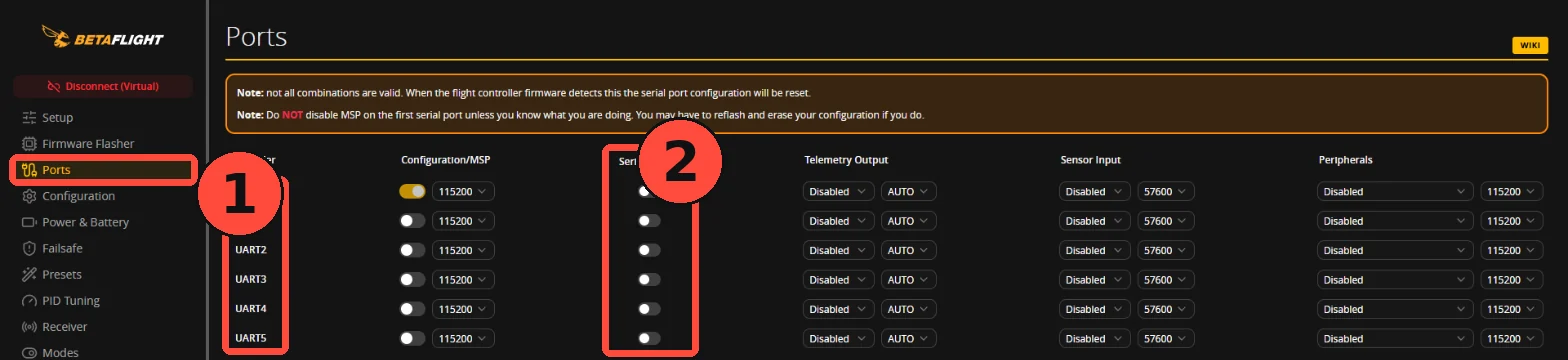
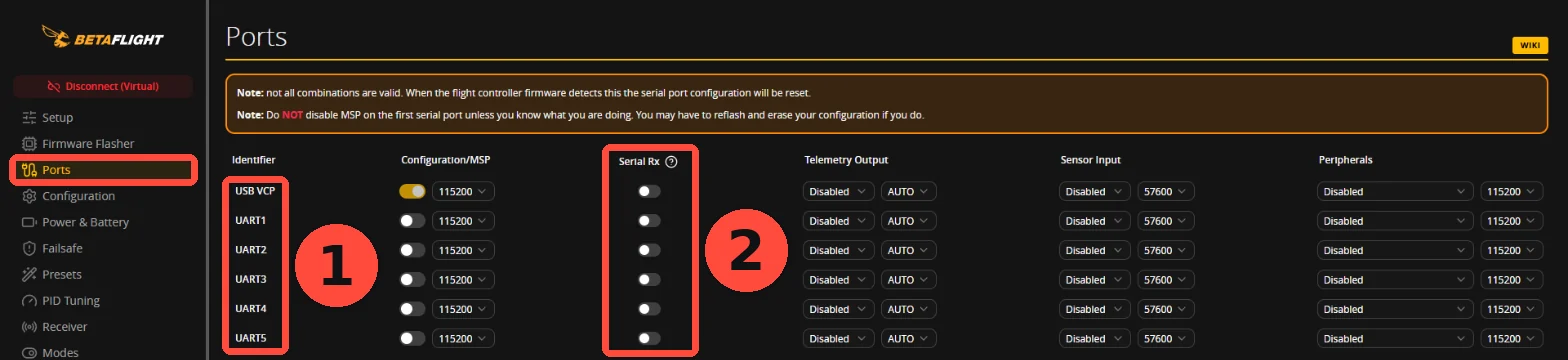
接收機／遙控器／GPS／失聯保護 10 篇：4.4 失聯第一階段也是 1.5 秒、STAGE1 開關需 1.5 秒內撥回、GPS 救援近距離行為分版本且改在 30～50 公尺測試、2026.6 觸地上鎖約 15 秒、第一階段油門設定、RGB 燈號例外、內建 SPI 接收機與韌體協定選項、Model Match 正確說法、存檔提醒、GPS 功能與編譯選項、Lua 鮑率；連接埠截圖編號不再遮字；長參數名在手機換行；e2e 加 App 名稱查詢
Claude-Session: https://claude.ai/code/session_01WoWSTdXLgMhsoMfGHALiD3

Changed region(s): [[0.4062, 0.3056, 0.5, 0.825], [0.125, 0.4278, 0.25, 0.8556]]

diff --git a/assets/css/site.css b/assets/css/site.css
@@ -721,7 +721,7 @@ section{padding:36px 0}
 .help-steps>li{counter-increment:hs;display:grid;grid-template-columns:36px minmax(0,1fr);gap:12px}
 .help-steps>li::before{content:counter(hs);display:grid;place-items:center;width:32px;height:32px;background:var(--red);color:var(--red-ink);font-family:var(--mono);font-weight:700}
 .help-step-t{font-weight:700;font-size:17px}
-.help-step-sub{margin:6px 0 0;padding-left:1.1em;color:#d9d8d4;display:grid;gap:4px}.help-steps p+p{margin-top:4px;color:#d9d8d4}
+.help-step-sub{margin:6px 0 0;padding-left:1.1em;color:#d9d8d4;display:grid;gap:4px;min-width:0}.help-step-sub li{min-width:0;overflow-wrap:anywhere}.help-steps p+p{margin-top:4px;color:#d9d8d4}
 .help-table{overflow-x:auto;border:1px solid var(--line)}
 .help-table table{border-collapse:collapse;width:100%;min-width:560px;font-size:15px}
 .help-table th,.help-table td{text-align:left;vertical-align:top;padding:10px 14px;border-bottom:1px solid var(--line)}
@@ -827,3 +827,4 @@ section{padding:36px 0}
 .help-layout{grid-template-columns:minmax(0,1fr) 240px}
 @media(max-width:900px){.help-layout{grid-template-columns:minmax(0,1fr)}.help-aside{display:none}}
 @media(max-width:560px){.help-head h1{font-size:26px}.help-start{width:100%}}
+.help-main code{overflow-wrap:anywhere;word-break:break-word}

diff --git a/assets/js/help.js b/assets/js/help.js
@@ -58,8 +58,8 @@
     [all('DSHOT_BBANG'), 'DShot bitbang 馬達輸出設定或硬體不相容', '牽涉馬達輸出設定，不屬於新手自行處理的範圍。', 'adv', null, ['DSHOT_BITBANG']],
     [all('BST'), 'BST 介面相關的禁止解鎖（少見）', '不屬於新手自行處理的範圍。', 'adv'],
     [all('LOAD'), '飛控運算負載過高', '牽涉進階設定，不屬於新手自行處理的範圍。', 'adv'],
-    [all('GPS'), '開了 GPS 返航，但衛星數不夠', '到戶外空曠處等待定位；GPS 返航設定不屬於新手自行處理的範圍。', 'adv'],
-    [all('RESCUE_SW'), 'GPS 返航開關是開著的', '把返航開關撥回「關」。', 'adv', null, ['RESC']],
+    [all('GPS'), '開了 GPS 救援，開機後第一次解鎖前衛星數不夠（預設 8 顆）', '到戶外空曠處等待定位，衛星數足夠再解鎖。', 'ok', ['/help/gps-no-fix/', 'GPS 收不到衛星']],
+    [all('RESCUE_SW'), 'GPS 救援開關是開著的', '把救援開關撥回「關」。', 'ok', null, ['RESC']],
   ];
   const TAG = { ok: ['可自行處理', 'is-ok'], adv: ['交給專業處理', 'is-adv'], stop: ['先停手', 'is-stop'] };
   const tool = document.querySelector('[data-tool="arming-flags"]');

diff --git a/src/data/help/receiver-no-control.md b/src/data/help/receiver-no-control.md
@@ -7,7 +7,7 @@ category: 接收機／對頻
 level: beginner
 applies: ExpressLRS 3.x 接收機＋Betaflight（4.4 以後各版本）
 needs: 電腦、可傳資料的 USB 線、遙控器
-verified: 2026-10-27
+verified: 2026-10-28
 summary: 先看接收機的燈怎麼閃。燈號會直接告訴你卡在哪一關：沒供電、還沒連上、在 Wi-Fi 模式、模型不符，還是已經連上但飛控沒收到。
 keywords:
   - 對頻
@@ -39,6 +39,8 @@ sources:
   - ExpressLRS 官方：燈號說明 | https://expresslrs.org/quick-start/led-status
   - ExpressLRS 官方：對頻方式與版本相容 | https://expresslrs.org/quick-start/binding
   - ExpressLRS 官方：Betaflight 接收機設定 | https://www.expresslrs.org/quick-start/receivers/configuring-fc/
+  - ExpressLRS 官方：模型配對（Model Match） | https://www.expresslrs.org/software/model-config-match/
+  - ExpressLRS 官方：接收機接線（避開 SBUS 用 UART 的原因） | https://www.expresslrs.org/quick-start/receivers/wiring-up/
 ---
 :::safety 開始前
 拆下全部螺旋槳。打開遙控器，選好這台飛機的模型，再接上飛機電池。
@@ -48,14 +50,16 @@ sources:
 
 ## 先看接收機的燈
 
-以下是 ExpressLRS 單色燈接收機的燈號。彩色燈（RGB）接收機顏色不同，閃法大致相同，以官方燈號表為準。
+用 DJI 遙控器 3 控制（沒有獨立的接收機）的話，這篇的燈號不適用，直接看 [[dji-o4-power-wiring]] 的「遙控器 3 不能控制飛機」。
+
+以下是 ExpressLRS 單色燈接收機的燈號。彩色燈（RGB）接收機有兩個狀態完全不同：綠色像心跳一樣慢慢閃是 Wi-Fi 模式（看 C 段）；完全不亮也可能是 Bootloader（刷機）模式（看 E 段第 1 步）。其他狀態以官方燈號表為準。
 
 | 接收機的燈 | 代表什麼 | 看哪一段 |
 | --- | --- | --- |
-| 不亮或很暗 | 接收機沒有正常供電 | A |
+| 不亮或很暗 | 接收機沒有正常供電（RGB 接收機不亮也可能是 Bootloader 模式） | A |
 | 慢閃（約半秒亮、半秒暗） | 開好了，正在等遙控器 | B |
 | 連閃兩下、停一下 | 正在對頻模式 | B |
-| 很快地閃（像在抖） | 進入 Wi-Fi 更新模式，不會跟遙控器連線 | C |
+| 很快地閃（像在抖）；RGB 接收機是綠色心跳閃 | 進入 Wi-Fi 更新模式，不會跟遙控器連線 | C |
 | 連閃三下、停一下 | 已經跟遙控器連上，但「模型配對」不符，所以不送搖桿 | D |
 | 恆亮 | 通常是已經連上遙控器；但單色燈接收機在 Bootloader（刷機）模式時也會恆亮 | E（先照 E 段第 1 步分辨） |
 | 中等速度一直閃（約 0.1 秒） | 接收機偵測不到無線晶片，屬於硬體問題 | 看文末「還是不行？」 |
@@ -70,9 +74,9 @@ sources:
 
 :::case B 慢閃或連閃兩下（還沒連上）
 1. **頻段要一樣**：2.4G 的遙控器只能連 2.4G 的接收機，900M 只能連 900M。
-2. **大版本要一樣**：遙控器發射端與接收機的版本，第一個數字要相同，例如 3.x 配 3.x；2.x 配 3.x 無法連線。
+2. **大版本要一樣**：遙控器發射端與接收機的版本，第一個數字要相同，例如 3.x 配 3.x、4.x 配 4.x；2.x 配 3.x 無法連線。飛控內建的接收機，要看那一版 Betaflight 支援哪一版 ELRS（例如 2026.6 內建接收機用 ELRS 3.x，不能配 4.x 的發射端）。
 3. **綁定密語要一樣**：兩邊設定的綁定密語（Binding Phrase）要是同一串文字。
-4. **沒設密語就手動對頻**：遙控器先關機，接收機在約 2 秒內「插電、拔電」連續三次，燈變成連閃兩下後，在遙控器的 ExpressLRS 腳本按 [BIND]。飛控內建的接收機，可以在 Betaflight「接收機」頁按對頻。
+4. **沒設密語就手動對頻**：遙控器先關機，接收機在約 2 秒內「插電、拔電」連續三次，燈變成連閃兩下後，在遙控器的 ExpressLRS 腳本按 [BIND]。飛控內建的接收機，可以在 Betaflight「接收機」頁按 Bind Receiver（對頻）。
 :::
 
 :::case C 很快地閃（Wi-Fi 模式）
@@ -82,25 +86,28 @@ sources:
 :::
 
 :::case D 連閃三下（模型配對不符）
-1. **切回原本能用的模型**：在遙控器換回綁定時用的那個模型，燈變恆亮、搖桿恢復控制，就是這個原因。
-2. **多台飛機各用一個模型**：每台飛機在遙控器各建一個模型，記住哪台配哪個。
-3. **不要為了省事長期關掉模型配對**：它的用途是避免選錯模型時控制到另一台飛機。
+1. **切回原本能用的模型**：模型配對（Model Match）不是在對頻時記住的，而是在連線狀態下打開 Model Match 時，接收機記住當時那個模型的 Receiver 編號。換回那個模型（EdgeTX「模型設定 → 內建／外接 RF」的 Receiver 編號相同的那個），燈變恆亮、搖桿恢復控制，就是這個原因。
+2. **多台飛機各用一個模型**：每台飛機在遙控器各建一個模型，每個模型設不同的 Receiver 編號；複製模型時編號會一起被複製，記得改掉。
+3. **建議打開模型配對**：模型配對預設是關的，打開後可以避免選錯模型時控制到另一台飛機。
 :::
 
 :::case E 燈恆亮，但 Betaflight 搖桿不動
-1. **先分辨是真的連上，還是在 Bootloader 模式**：看遙控器有沒有收到接收機的遙測資料（例如遙控器的遙測畫面出現 RSSI、LQ 等數值）。有，代表真的連上，繼續第 2 步。沒有，接收機可能停在 Bootloader（刷機）模式：拔掉電池重新插電，插電時不要按接收機上的按鍵；剛透過飛控刷過接收機的話，重新上電一次。
+1. **先分辨是真的連上，還是在 Bootloader 模式**：看遙控器有沒有收到接收機的遙測資料（例如遙控器的遙測畫面出現 RSSI、LQ 等數值）。有，代表真的連上，繼續第 2 步。沒有，接收機可能停在 Bootloader（刷機）模式：拔掉電池重新插電，插電時不要按接收機上的按鍵；剛透過飛控刷過接收機的話，重新上電一次。重新插電仍然恆亮、遙控器也收不到遙測：接收機可能接在飛控標示 SBUS 的那組 UART 上（那組的 RX 常有下拉電阻，會讓接收機卡在 Bootloader），改接到另一組 UART；不確定就看文末「還是不行？」。
 2. **看「接收機」頁的通道條（下圖 ①）**：USB 接上電腦、接上電池，到 Betaflight「接收機」頁撥搖桿。通道條會跟著動，代表一切正常；完全不動，繼續下一步。
-3. **看「接收機」頁的協定（下圖 ②）**：Receiver Mode（接收機模式）選 Serial (via UART)。下面的 Serial Receiver Provider（序列接收機協定）依你的遙控系統選：
-   - ExpressLRS（ELRS）接收機，包括大多數支援 ELRS 的遙控器：選 CRSF。
-   - DJI 遙控器 3 透過 O4 天空端的 SBUS 線控制：選 SBUS，接線與設定看 [[dji-o4-power-wiring]]。
+3. **看「接收機」頁的協定（下圖 ②）**：協定是看飛機上的接收方式，不是看遙控器品牌：
+   - 外接的 ExpressLRS（ELRS）接收機：Receiver Mode 選 Serial (via UART)，Serial Receiver Provider 選 CRSF。
+   - 飛控內建的 ELRS 接收機：Receiver Mode 選 SPI Rx (e.g. built-in Rx)，Provider 選 ExpressLRS；不用做第 4、5 步。
+   - DJI 遙控器 3（透過 O4 天空端的 SBUS 線）：Receiver Mode 選 Serial (via UART)，Provider 選 SBUS，接線看 [[dji-o4-power-wiring]]。
+   - 下拉選單裡沒有你要的協定（畫面會出現 Some Receiver Providers are not supported by current Build Configuration）：代表刷韌體時 Radio Protocol 沒選它，要重新刷韌體並在 Build Configuration 選對協定，看 [[firmware-update]]。
+   - 改完按右下角 Save。
 
 ![Betaflight App 2026.6.2「接收機」頁（左側選單 Receiver）：① 通道條，撥搖桿時要跟著動；② Receiver Mode 選 Serial (via UART)；Serial Receiver Provider：ELRS 選 CRSF，DJI 遙控器 3（經 O4 天空端 SBUS 線）選 SBUS。此圖是沒接飛控的虛擬模式，通道固定停在 1500，不是實機數值。](/assets/img/help/receiver-no-control/bf-receiver.webp)
 
-4. **看「連接埠」頁（下圖 ②）**：接收機接在哪一組 UART（下圖 ①），就在那一組打開 Serial Rx，其他組不要開。
+4. **看「連接埠」頁（下圖 ②）**：接收機接在哪一組 UART（下圖 ①），就在那一組打開 Serial Rx，其他組不要開。改完按右下角 Save and Reboot。
 
 ![Betaflight App 2026.6.2「連接埠」頁（左側選單 Ports）：① 每一組 UART 一列；② Serial Rx 欄，只在接收機實際接的那一組打開。此圖是虛擬模式，全部都還沒打開。](/assets/img/help/receiver-no-control/bf-ports.webp)
 
-5. **看接線方向**：接收機的 TX 要接飛控的 RX，接收機的 RX 接飛控的 TX（交叉接）。
+5. **看接線方向**（外接 ELRS）：接收機的 TX 要接飛控的 RX，接收機的 RX 接飛控的 TX（交叉接）。DJI 的 SBUS 只有一條線，接飛控的 RX。
 6. **通道會動但順序不對**：例如推油門卻動到別的通道，調整「接收機」頁的通道順序（Channel Map），讓每支搖桿動到對應的通道。
 :::
 
@@ -109,7 +116,7 @@ sources:
 :::
 
 :::checks 怎樣算修好
-- 接收機燈恆亮
+- ELRS：接收機燈恆亮，遙控器收得到遙測
 - Betaflight「接收機」頁：每支搖桿都動到對應的通道，油門拉到底與推到頂時數值跟著從最低變到最高
 - 拆槳狀態下關掉遙控器，飛控有進入失聯保護（「接收機」頁或 OSD 顯示失聯）
 :::

diff --git a/src/data/help/failsafe-check.md b/src/data/help/failsafe-check.md
@@ -37,31 +37,31 @@ sources:
 | 階段 | 什麼時候 | 飛機會怎樣 |
 | --- | --- | --- |
 | 偵測到失聯 | 飛控收不到遙控資料 | OSD 顯示 RXLOSS |
-| 第一階段 | 失聯後一小段時間（`failsafe_delay`：4.5 起預設 1.5 秒，4.4 預設 1 秒） | 搖桿回中、油門依設定；這段時間內訊號恢復，立刻交還控制 |
+| 第一階段 | 失聯後一小段時間（`failsafe_delay`：4.4～2026.6 預設都是 1.5 秒，可在命令列輸入 `get failsafe_delay` 確認） | 搖桿回中、油門依設定；這段時間內訊號恢復，立刻交還控制 |
 | 第二階段 | 第一階段時間到 | OSD 顯示 !FS!，執行你選的處理：直接停機（預設）、降落或 GPS 救援。進入這個階段後，訊號恢復也不會馬上交還控制（見下方第 6 步） |
 
 ## 建議檢查順序
 
 1. **看接收機的失聯行為**：接收機要設定成失聯時「不送資料」。接收機一直送最後的搖桿值，飛控就偵測不到失聯。
 2. **看「失聯保護」頁的第二階段**：沒有 GPS 的飛機選直接停機；有 GPS 且已照 [[gps-rescue]] 測試過，才選 GPS 救援。官方文件不建議一般情況使用「降落」，因為飛機會邊降邊漂。
-3. **拆槳、接電池、解鎖**：推一點油門讓馬達轉，然後關閉遙控器的發射模組（官方建議的做法；關掉整台遙控器也可以）。
+3. **拆槳、接電池、解鎖**：Betaflight App 連著時不能解鎖，先在 App 按 Disconnect、拔掉 USB，戴上眼鏡看 OSD（「OSD」頁要打開 Warnings 和 Flight mode 兩個項目，才看得到 RXLOSS 與 !FS!）。解鎖後推一點油門讓馬達轉，然後關閉遙控器的發射模組（官方建議的做法；關掉整台遙控器也可以）。
 4. **看 OSD 與馬達**：先出現 RXLOSS，第一階段結束後出現 !FS!，選直接停機的話馬達會停並上鎖。
-5. **第一階段的「恢復控制」要另外測**：遙控器關機再開機、重新連上接收機，通常要好幾秒，已經超過 1.5 秒的第一階段，所以用「關機再開機」看不到第一階段的恢復，這是正常的。要測這一段，用「模式」頁的失聯保護開關，並把 `failsafe_switch_mode` 設成 STAGE1（見下方進階）：撥上時搖桿回中、油門依設定；撥回時要立刻恢復控制。
+5. **第一階段的「恢復控制」要另外測**：遙控器關機再開機、重新連上接收機，通常要好幾秒，已經超過 1.5 秒的第一階段，所以用「關機再開機」看不到第一階段的恢復，這是正常的。要測這一段，用「模式」頁的失聯保護開關，並確認 `failsafe_switch_mode` 是 STAGE1（預設值，見下方進階）：先在地面拆槳測，撥上時搖桿回中、油門依設定；**1.5 秒內撥回**，要立刻恢復控制。撥上超過 1.5 秒，就會和真的失聯一樣進入第二階段（直接停機會讓飛機掉下來）。
 6. **第二階段之後的恢復**：遙控器重新連上後，飛機不會自己恢復：
    - 直接停機：飛機已經上鎖。先把解鎖開關撥回「關」，再重新解鎖（4.3 起不用重新上電）。開關還在「開」時，清單會出現 NOT_DISARMED（4.4 叫 BADRX；Betaflight App 2026.6 顯示為 BAD_RX_RECOVERY）。
    - 降落：訊號恢復超過 `failsafe_recovery_delay`（4.5 起預設 0.5 秒，4.4 預設 1 秒）才交還控制；降落時間結束時飛機會上鎖。
    - GPS 救援：訊號恢復後，還要把搖桿推離中間超過 30%（`failsafe_stick_threshold` 預設 30）才拿回控制，詳見 [[gps-rescue]]。
 
 :::advanced 進階：失聯保護開關
-「模式」頁可以設定失聯保護開關，用來在空中安全地測試。`failsafe_switch_mode` 有三種：STAGE1（先進第一階段）、STAGE2（直接執行第二階段處理）、KILL（立即上鎖）。官方文件提醒 KILL 只要通道一個雜訊就可能直接上鎖墜機。
+「模式」頁可以設定失聯保護開關，用來模擬失聯。它和真的失聯一樣會計時：STAGE1 撥上超過第一階段時間（預設 1.5 秒），就會進入第二階段處理，所以在空中使用前，一定先在地面拆槳確認行為，空中只在低高度、軟地上方短暫使用。`failsafe_switch_mode` 有三種：STAGE1（先進第一階段）、STAGE2（直接執行第二階段處理）、KILL（立即上鎖）。官方文件提醒 KILL 只要通道一個雜訊就可能直接上鎖墜機。
 
-官方的地面測試範例，也會暫時把第一階段拉長到 10 秒（`set failsafe_delay = 100`，單位是 0.1 秒），在這段時間內關閉再打開發射模組，確認 RXLOSS 出現、再消失並恢復控制。測完一定要改回原本的值（預設 `15`）再 `save`，不要帶著 10 秒的第一階段去飛。
+官方的地面測試範例，也會暫時把第一階段拉長到 10 秒（`set failsafe_delay = 100`，單位是 0.1 秒），關閉發射模組後，確認 RXLOSS 出現、馬達轉速降到第一階段設定的油門；在 10 秒內打開發射模組，要恢復控制。測完一定要改回原本的值（預設 `15`）再 `save`，不要帶著 10 秒的第一階段去飛。
 :::
 
 :::checks 怎樣算修好
 - 關閉發射模組後，OSD 先顯示 RXLOSS，接著顯示 !FS!
 - 第二階段的動作和你在「失聯保護」頁選的一致（例如直接停機時馬達停止並上鎖）
-- 失聯保護開關（STAGE1）撥上再撥回，馬上恢復控制
+- 失聯保護開關（STAGE1）撥上後 1.5 秒內撥回，馬上恢復控制
 - 第二階段後重新連上遙控器：選直接停機時，要先把解鎖開關撥回「關」才能再解鎖
 :::
 

diff --git a/src/data/help/gps-no-fix.md b/src/data/help/gps-no-fix.md
@@ -7,7 +7,7 @@ category: GPS／返航
 level: beginner
 applies: Betaflight 4.4、4.5、2025.12、2026.6＋UBLOX 類 GPS 模組
 needs: 電腦、USB 線、電池、戶外空曠場地
-verified: 2026-10-27
+verified: 2026-10-28
 summary: 先分清楚是「飛控根本沒讀到 GPS」，還是「讀到了但收不到衛星或定位不穩」。前者是接線或設定，後者是收星環境與安裝位置。
 keywords:
   - 0 顆衛星
@@ -39,7 +39,7 @@ sources:
 
 ## 先分清楚是哪一種狀況
 
-接上電池、USB 連上電腦，打開 Betaflight App（舊稱 Configurator）。畫面上方的感測器列有一個衛星圖示：灰色是沒有偵測到 GPS，紅色是偵測到 GPS 但還沒定位，亮起是已經定位（以 Betaflight App 的顯示為例，舊版軟體顏色可能不同）。
+接上電池、USB 連上電腦，打開 Betaflight App（舊稱 Configurator）。畫面上方的感測器列有一個衛星圖示：灰色是沒有偵測到 GPS，紅色是偵測到 GPS 但還沒定位，變成黃色（亮起）是已經 3D 定位（以 Betaflight App 的顯示為例，舊版軟體顏色可能不同）。
 
 衛星數是 0 不一定是接線問題：在室內、或剛通電還在搜星時，接線正常也會是 0。所以要先看「飛控有沒有收到 GPS 的資料」，再看衛星數。
 
@@ -54,10 +54,11 @@ sources:
 ## 依狀況處理
 
 :::case A 飛控沒有收到 GPS 的資料
-1. **看 GPS 有沒有亮燈**：多數 GPS 模組通電後會亮燈。完全不亮，代表沒有供電，檢查供電與地線焊點。
+1. **看 GPS 有沒有亮燈**：多數 GPS 模組通電後會亮燈。完全不亮，可能沒有供電，檢查供電與地線焊點（少數模組沒有電源燈，以說明書為準）。
 2. **看接線方向**：GPS 的 TX 接飛控的 RX，GPS 的 RX 接飛控的 TX（交叉接），兩條都要接在同一組 UART。
-3. **看「連接埠」頁**：GPS 接在哪一組 UART，就在那一組的感測器輸入選 GPS，同一組不要再開其他功能。
-4. **看「GPS」頁的協定**：多數模組選 UBLOX，並保持自動設定（Auto Config）開啟。官方文件註明 M10 系列模組需要 Betaflight 4.5 或更新版本。
+3. **GPS 功能有沒有打開**：左側選單要有「GPS」頁，而且頁面上方的 GPS 功能開關是開的。左側根本沒有 GPS 頁，代表刷韌體時沒有勾選 GPS 選項，要重新刷韌體並在 Build Configuration 的 Other Options 勾選 GPS，看 [[firmware-update]]。
+4. **看「連接埠」頁**：GPS 接在哪一組 UART，就在那一組的感測器輸入選 GPS，同一組不要再開其他功能。
+5. **看「GPS」頁的協定**：多數模組選 UBLOX，並保持自動設定（Auto Config）開啟。官方文件註明 M10 系列模組要用自動設定，需要 Betaflight 4.5 或更新版本；4.4 用 M10 模組請先升級。
 :::
 
 :::case B GPS 有連上，但一直沒有定位

diff --git a/src/data/help/elrs-lua-loading.md b/src/data/help/elrs-lua-loading.md
@@ -7,7 +7,7 @@ category: 接收機／對頻
 level: beginner
 applies: ExpressLRS 3.x 發射模組（內建或外接）＋EdgeTX 遙控器
 needs: 遙控器（EdgeTX）、記憶卡或電腦
-verified: 2026-10-27
+verified: 2026-10-28
 summary: 腳本卡在載入中，代表遙控器沒有和 ELRS 發射模組正常通訊。多數是模型沒有啟用發射模組、外接模組的鮑率不夠，或腳本版本和模組韌體不同。
 keywords:
   - Lua
@@ -35,7 +35,7 @@ sources:
 
 1. **腳本放的位置**：`elrs.lua` 要放在遙控器記憶卡的 `SCRIPTS/TOOLS` 資料夾，從系統選單的「工具」打開。放在其他資料夾，選單裡會找不到或打不開。
 2. **這個模型有沒有啟用發射模組**：目前選用的模型要設定使用 ELRS 發射模組（內建或外接）。模組沒有啟用時，腳本永遠停在載入中。
-3. **外接模組的鮑率（Baud rate）**：官方說明從 3.3.0 起，封包率 333Hz 以上需要高於 400K 的鮑率。改鮑率後要重新開機才會生效；也可以先把封包率降低測試。
+3. **模組的鮑率（Baud rate）**：內建或外接模組都要看。EdgeTX 的「硬體」設定裡有內建／外接 RF 的鮑率；官方說明從 3.3.0 起，封包率 333Hz 以上需要高於 400K 的鮑率。調高鮑率後要重新開機遙控器才會生效。
 4. **腳本版本**：發射模組是 3.x 韌體就用 3.x 的腳本，2.x 用 2.x 的腳本，版本不對會一直載入。
 5. **還是卡住**：先建一個新的模型設定檔測試，不要急著重刷整台遙控器。
 
@@ -45,7 +45,7 @@ sources:
 | --- | --- | --- |
 | 「工具」選單裡找不到 ExpressLRS | 腳本沒放在 `SCRIPTS/TOOLS` | 把 `elrs.lua` 移到正確資料夾 |
 | 換到另一個模型就打得開 | 原模型的發射模組設定不同 | 對照兩個模型的發射模組設定 |
-| 封包率調低後打得開 | 外接模組的鮑率不夠 | 調高鮑率並重新開機，或維持較低封包率 |
+| 調高鮑率並重新開機後打得開 | 原本的鮑率不夠 | 維持較高的鮑率 |
 | 所有模型都打不開 | 模組沒供電、沒插好或韌體版本不符 | 看模組燈號，再核對腳本與模組版本 |
 
 :::checks 怎樣算修好

diff --git a/src/data/help/betaflight-arming.md b/src/data/help/betaflight-arming.md
@@ -72,7 +72,7 @@ sources:
 | ALT_HOLD_SW、POS_HOLD_SW（2025.12 起）；AUTOPILOT_SW（2026.6 起）。App 2026.6 顯示 ALTHOLD、POSHOLD、AUTOPILOT | 定高、定點或自動駕駛模式的開關是開著的 | 把那個模式的開關撥回「關」再解鎖 |
 | FLIP_SWITCH（2025.12 起；App 2026.6 顯示 CRASHFLIP） | 用過翻正（Turtle）功能後，需要先手動上鎖一次 | 把解鎖開關撥回「關」，再重新解鎖 |
 
-清單裡出現 RUNAWAY、CRASH、DSHOT_TELEM（4.4 叫 RPMFILTER）、MOTOR_PROTO、LOAD、NOGYRO、GPS、RESCUE_SW、PARALYZE、DSHOT_BBANG 或 BST，就不屬於新手自行處理的範圍（App 2026.6 上分別顯示為 RUNAWAY_TAKEOFF、CRASH_DETECTED、DSHOT_TELEM、MOTOR_PROTOCOL、LOAD、NO_GYRO、GPS、RESC、PARALYZE、DSHOT_BITBANG、BST）。其中 RUNAWAY 代表上次解鎖時飛控偵測到「失控衝飛」，常見原因是馬達順序、旋轉方向或槳裝錯，很危險，先不要再試。
+清單裡出現 RUNAWAY、CRASH、DSHOT_TELEM（4.4 叫 RPMFILTER）、MOTOR_PROTO、LOAD、NOGYRO、PARALYZE、DSHOT_BBANG 或 BST，就不屬於新手自行處理的範圍（App 2026.6 上分別顯示為 RUNAWAY_TAKEOFF、CRASH_DETECTED、DSHOT_TELEM、MOTOR_PROTOCOL、LOAD、NO_GYRO、PARALYZE、DSHOT_BITBANG、BST）。GPS 代表開了 GPS 救援、第一次解鎖前衛星數不夠，看 [[gps-no-fix]]；RESCUE_SW（App 顯示 RESC）是救援開關開著，撥回「關」即可。其中 RUNAWAY 代表上次解鎖時飛控偵測到「失控衝飛」，常見原因是馬達順序、旋轉方向或槳裝錯，很危險，先不要再試。
 
 另外兩個常見、可以自己處理的：CMS（App 顯示 CMS_MENU）是用搖桿進了 OSD 選單，選 EXIT 離開即可；REBOOT_REQD（App 顯示 REBOOT_REQUIRED）是改了要重開機才生效的設定，存檔後重新開機即可。
 

diff --git a/src/data/help/elrs-switch-modes.md b/src/data/help/elrs-switch-modes.md
@@ -7,7 +7,7 @@ category: 接收機／對頻
 level: beginner
 applies: ExpressLRS 3.x
 needs: 遙控器、電腦、USB 線
-verified: 2026-10-27
+verified: 2026-10-28
 summary: ELRS 的第一個輔助通道（AUX1）本來就只有兩段，是設計給解鎖開關用的；需要三段或旋鈕，要放到 AUX2 以後的通道，並看開關模式的設定。
 keywords:
   - AUX1
@@ -34,7 +34,7 @@ sources:
 ## 建議檢查順序
 
 1. **先分清楚是哪一個通道**：AUX1 是第 5 通道。AUX1 只有兩段是 ELRS 的設計，留給解鎖開關使用，最穩定，不是故障。
-2. **看開關模式**：Hybrid 模式下，AUX2～AUX7 可當 2 段、3 段或 6 段開關，AUX8 有 16 段；Wide 模式下 AUX2～AUX8 有更多段數（官方說明 3.x 依遙測比例為 64 或 128 段）。
+2. **看開關模式**：開關模式只能在接收機沒連上時更改；先拔掉飛機電池，等遙控器顯示遙測中斷（Telemetry Lost）後，再到 ExpressLRS 腳本改。Hybrid 模式下，AUX2～AUX7 可當 2 段、3 段或 6 段開關，AUX8 有 16 段；Wide 模式下 AUX2～AUX8 有更多段數（官方說明 3.x 依遙測比例為 64 或 128 段）。
 3. **把多段開關或旋鈕放到 AUX2 以後**：在遙控器的混控頁，把三段開關或旋鈕指定到第 6 通道以後。
 4. **到飛控看數值**：拆槳後到 Betaflight「接收機」頁撥開關，看通道數值有幾種變化，再到「模式」頁設定範圍。
 

diff --git a/src/data/help/elrs-reboot-on-battery.md b/src/data/help/elrs-reboot-on-battery.md
@@ -7,7 +7,7 @@ category: 接收機／對頻
 level: intermediate
 applies: ExpressLRS 3.x 外接接收機（接在飛控 5V 供電）
 needs: 電池、電腦、USB 線
-verified: 2026-10-27
+verified: 2026-10-28
 summary: 只接 USB 時正常、一接電池就重啟，通常和供電有關：接收機的電源或地線接觸不好，或圖傳等設備啟動時把供電拉低。先比較兩種供電，再一樣一樣拔掉測試。
 keywords:
   - 重啟
@@ -36,7 +36,7 @@ sources:
 1. **比較兩種供電**：只接 USB 時看接收機燈號；再接上電池，看燈號是否開始重新閃（代表接收機重啟了）。
 2. **看接收機供電接在哪**：官方接線說明是接收機的 5V 接飛控的 5V（或 4.5V）焊點、地線接到地線焊點。焊點鬆動、地線接觸不良，插電池時容易重啟。
 3. **拔掉圖傳測試**：斷電後先暫時拔掉圖傳再試。拔掉後不再重啟，代表圖傳啟動時把供電拉低，需要分開檢查供電。
-4. **不要自己把兩路供電接在一起**：仍然會重啟，看文末「還是不行？」。
+4. **仍然會重啟**：看文末「還是不行？」。不要自己把圖傳和接收機的供電並聯，也不要把接收機改接到電池電壓。
 
 ## 看結果判斷
 

diff --git a/src/data/help/firmware-update.md b/src/data/help/firmware-update.md
@@ -47,7 +47,8 @@ sources:
 1. **記下目前版本與飛控型號**：在命令列輸入 `version` 可以看到韌體版本與板子名稱；飛控型號以板子背面的完整名稱為準，不要只看處理器名稱。
 2. **備份設定**：在「預設集（Presets）」頁按儲存備份，或在命令列輸入 `diff all` 後存成檔案。另外截圖「連接埠」頁，記住每個 UART 接了什麼。
 3. **確認新版支援你的飛控**：在韌體更新頁按自動偵測，畫面上的板子名稱要和你的飛控一樣。
-4. **準備好接線**：用一條確定能傳資料的 USB 線，直接插電腦。
+4. **選對編譯選項**：韌體燒寫頁的 Build Configuration 裡，Radio Protocol 只能選一種，要選你用的接收方式（外接 ELRS 接收機選 CRSF、飛控內建 ELRS 選 ExpressLRS 或 SPI 相關選項、DJI 遙控器 3 選 SBUS；選項名稱依 App 版本可能略有不同），用 GPS 的話在 Other Options 勾選 GPS。沒選到的功能，刷完在設定畫面會找不到。
+5. **準備好接線**：用一條確定能傳資料的 USB 線，直接插電腦。
 
 {{tool:case-picker}}
 
